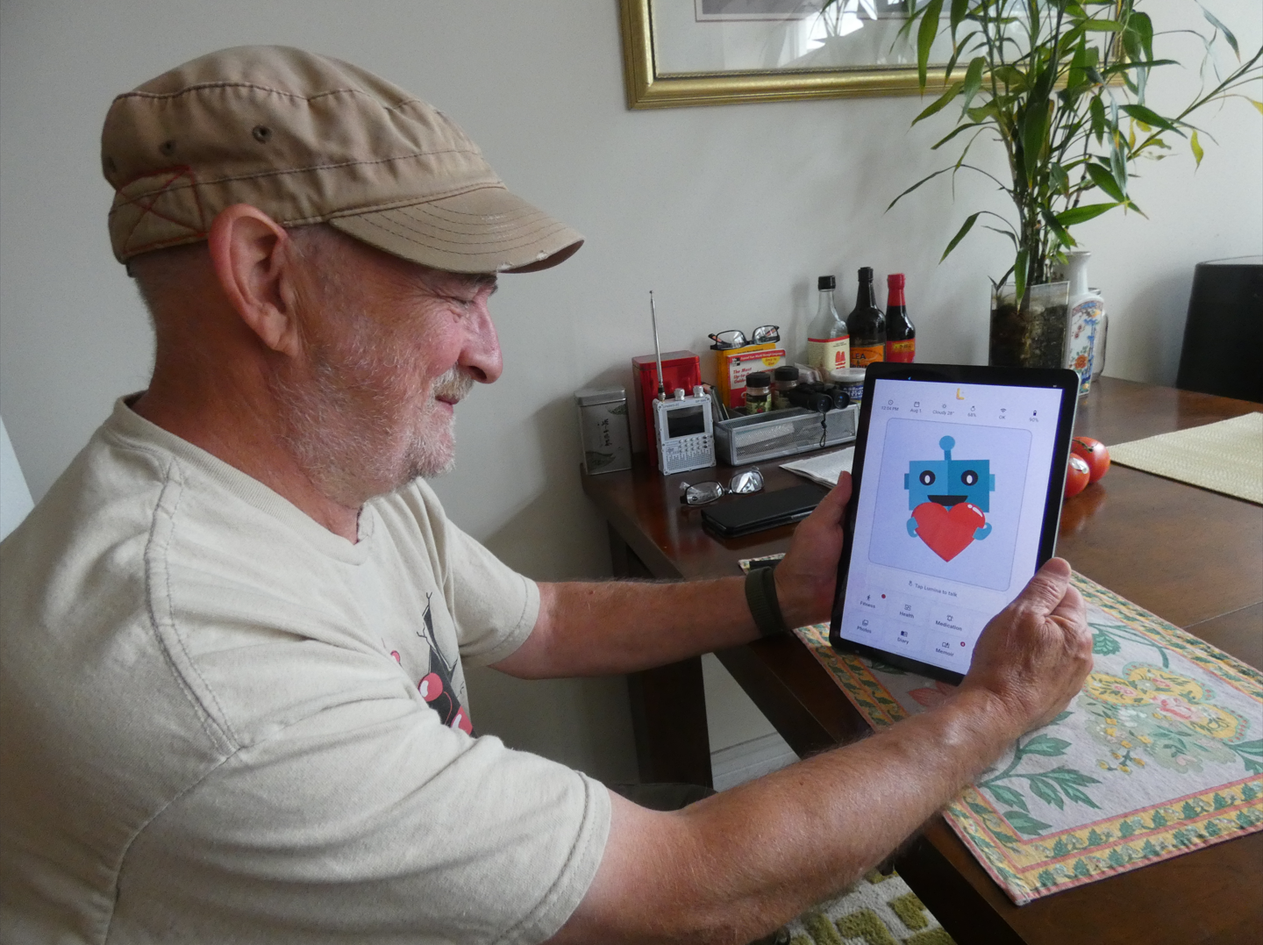
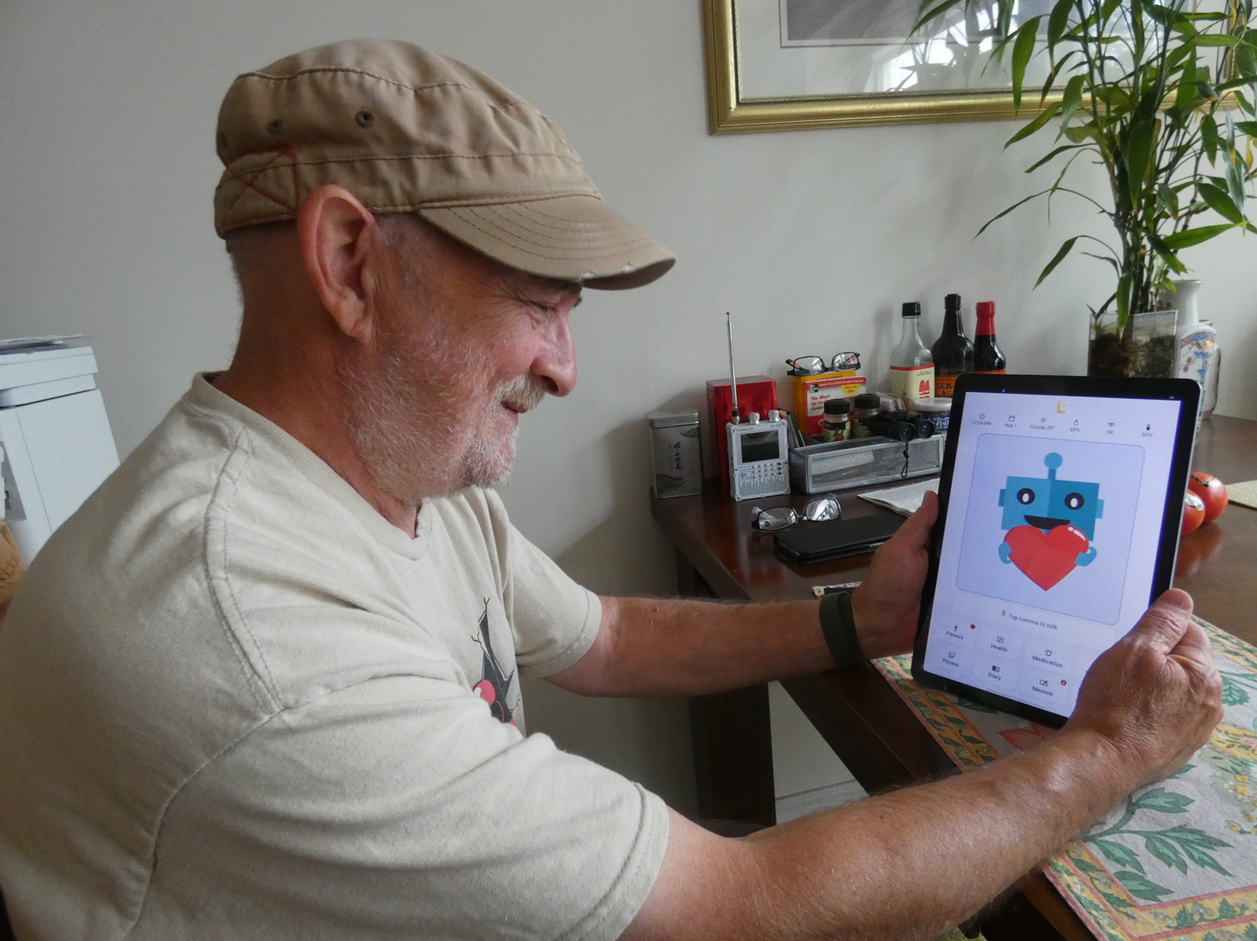
Fix Task 1.1 Bug

diff --git a/css/styles.css b/css/styles.css
@@ -1,2 +1,2 @@
 /*! tailwindcss v4.3.3 | MIT License | https://tailwindcss.com */
-@layer properties{@supports (((-webkit-hyphens:none)) and (not (margin-trim:inline))) or ((-moz-orient:inline) and (not (color:rgb(from red r g b)))){*,:before,:after,::backdrop{--tw-shadow:0 0 #0000;--tw-shadow-color:initial;--tw-shadow-alpha:100%;--tw-inset-shadow:0 0 #0000;--tw-inset-shadow-color:initial;--tw-inset-shadow-alpha:100%;--tw-ring-color:initial;--tw-ring-shadow:0 0 #0000;--tw-inset-ring-color:initial;--tw-inset-ring-shadow:0 0 #0000;--tw-ring-inset:initial;--tw-ring-offset-width:0px;--tw-ring-offset-color:#fff;--tw-ring-offset-shadow:0 0 #0000}}}@layer theme{:root,:host{--font-sans:"Atkinson Hyperlegible", ui-sans-serif, "Segoe UI", sans-serif;--font-mono:ui-monospace, SFMono-Regular, Menlo, Monaco, Consolas, "Liberation Mono", "Courier New", monospace;--default-font-family:var(--font-sans);--default-mono-font-family:var(--font-mono);--font-display:"Fraunces", ui-serif, Georgia, "Times New Roman", serif;--color-ink:#1a2e2a;--color-ink-muted:#4a5c57;--color-canvas:#eef2f0;--color-canvas-deep:#dfe8e3;--color-surface:#f7faf8;--color-pine:#2a5a4a;--color-pine-dark:#1e4337;--color-moss:#5a7d6c;--color-line:#c5d0ca}}@layer base{*,:after,:before,::backdrop{box-sizing:border-box;border:0 solid;margin:0;padding:0}::file-selector-button{box-sizing:border-box;border:0 solid;margin:0;padding:0}html,:host{-webkit-text-size-adjust:100%;tab-size:4;line-height:1.5;font-family:var(--default-font-family,-apple-system, BlinkMacSystemFont, "Segoe UI", Roboto, "Helvetica Neue", "Noto Sans", Arial, sans-serif, "Apple Color Emoji", "Segoe UI Emoji", "Segoe UI Symbol", "Noto Color Emoji");font-feature-settings:var(--default-font-feature-settings,normal);font-variation-settings:var(--default-font-variation-settings,normal);-webkit-tap-highlight-color:transparent}hr{height:0;color:inherit;border-top-width:1px}abbr:where([title]){-webkit-text-decoration:underline dotted;text-decoration:underline dotted}h1,h2,h3,h4,h5,h6{font-size:inherit;font-weight:inherit}a{color:inherit;-webkit-text-decoration:inherit;-webkit-text-decoration:inherit;-webkit-text-decoration:inherit;text-decoration:inherit}b,strong{font-weight:bolder}code,kbd,samp,pre{font-family:var(--default-mono-font-family,ui-monospace, SFMono-Regular, Menlo, Monaco, Consolas, "Liberation Mono", "Courier New", monospace);font-feature-settings:var(--default-mono-font-feature-settings,normal);font-variation-settings:var(--default-mono-font-variation-settings,normal);font-size:1em}small{font-size:80%}sub,sup{vertical-align:baseline;font-size:75%;line-height:0;position:relative}sub{bottom:-.25em}sup{top:-.5em}table{text-indent:0;border-color:inherit;border-collapse:collapse}:-moz-focusring:where(:not(iframe)){outline:auto}progress{vertical-align:baseline}summary{display:list-item}ol,ul,menu{list-style:none}img,svg,video,canvas,audio,iframe,embed,object{vertical-align:middle;display:block}img,video{max-width:100%;height:auto}button,input,select,optgroup,textarea{font:inherit;font-feature-settings:inherit;font-variation-settings:inherit;letter-spacing:inherit;color:inherit;opacity:1;background-color:#0000;border-radius:0}::file-selector-button{font:inherit;font-feature-settings:inherit;font-variation-settings:inherit;letter-spacing:inherit;color:inherit;opacity:1;background-color:#0000;border-radius:0}:where(select:is([multiple],[size])) optgroup{font-weight:bolder}:where(select:is([multiple],[size])) optgroup option{padding-inline-start:20px}::file-selector-button{margin-inline-end:4px}::placeholder{opacity:1}@supports (not ((-webkit-appearance:-apple-pay-button))) or (contain-intrinsic-size:1px){::placeholder{color:currentColor}@supports (color:color-mix(in lab, red, red)){::placeholder{color:color-mix(in oklab, currentcolor 50%, transparent)}}}textarea{resize:vertical}::-webkit-search-decoration{-webkit-appearance:none}::-webkit-date-and-time-value{min-height:1lh;text-align:inherit}::-webkit-datetime-edit{display:inline-flex}::-webkit-datetime-edit-fields-wrapper{padding:0}::-webkit-datetime-edit{padding-block:0}::-webkit-datetime-edit-year-field{padding-block:0}::-webkit-datetime-edit-month-field{padding-block:0}::-webkit-datetime-edit-day-field{padding-block:0}::-webkit-datetime-edit-hour-field{padding-block:0}::-webkit-datetime-edit-minute-field{padding-block:0}::-webkit-datetime-edit-second-field{padding-block:0}::-webkit-datetime-edit-millisecond-field{padding-block:0}::-webkit-datetime-edit-meridiem-field{padding-block:0}::-webkit-calendar-picker-indicator{line-height:1}:-moz-ui-invalid{box-shadow:none}button,input:where([type=button],[type=reset],[type=submit]){appearance:button}::file-selector-button{appearance:button}::-webkit-inner-spin-button{height:auto}::-webkit-outer-spin-button{height:auto}[hidden]:where(:not([hidden=until-found])){display:none!important}html{scroll-behavior:smooth}body{min-height:100vh;font-family:var(--font-sans);color:var(--color-ink);background-color:var(--color-canvas);background-image:radial-gradient(ellipse 120% 80% at 10% -20%, #5a7d6c2e, transparent 55%), radial-gradient(ellipse 90% 60% at 100% 0%, #9a7b521a, transparent 50%), linear-gradient(180deg, var(--color-canvas) 0%, var(--color-canvas-deep) 100%);-webkit-font-smoothing:antialiased;background-attachment:fixed;flex-direction:column;margin:0;display:flex}a{color:inherit;text-underline-offset:.18em;text-decoration-thickness:1px}:focus-visible{outline:2px solid var(--color-pine);outline-offset:3px}.visually-hidden{clip:rect(0, 0, 0, 0);white-space:nowrap;border:0;width:1px;height:1px;margin:-1px;padding:0;position:absolute;overflow:hidden}}@layer components{.site-container{width:min(70rem,100% - 2rem);margin-inline:auto}.brand{font-family:var(--font-display);letter-spacing:-.02em;color:var(--color-pine-dark);font-size:1.35rem;font-weight:650;line-height:1.2}.site-header{z-index:40;border-bottom:1px solid #c5d0cacc;position:sticky;top:0}@supports (color:color-mix(in lab, red, red)){.site-header{border-bottom:1px solid color-mix(in oklab, var(--color-line) 80%, transparent)}}.site-header{background:#f7faf8eb}@supports (color:color-mix(in lab, red, red)){.site-header{background:color-mix(in oklab, var(--color-surface) 92%, transparent)}}.site-header{-webkit-backdrop-filter:blur(10px);backdrop-filter:blur(10px)}.site-header__bar{flex-direction:column;gap:.25rem;padding-block:.5rem;display:flex}.site-header__top{justify-content:space-between;align-items:center;gap:1rem;min-height:3.5rem;display:flex}.nav-toggle{border:1px solid var(--color-line);background:var(--color-surface);min-width:3rem;min-height:3rem;color:var(--color-ink);font:inherit;cursor:pointer;border-radius:.75rem;justify-content:center;align-items:center;gap:.5rem;padding:.5rem .75rem;font-size:.95rem;font-weight:700;display:inline-flex}.nav-toggle__icon{background:linear-gradient(var(--color-ink), var(--color-ink)) 0 0 / 100% 2px no-repeat, linear-gradient(var(--color-ink), var(--color-ink)) 0 50% / 100% 2px no-repeat, linear-gradient(var(--color-ink), var(--color-ink)) 0 100% / 100% 2px no-repeat;width:1.15rem;height:.85rem;display:block}.site-nav{flex-direction:column;gap:.25rem;width:100%;padding:.25rem 0 .75rem;display:none}.site-nav.is-open{display:flex}.nav-link{min-height:3rem;color:var(--color-ink-muted);border-radius:.65rem;align-items:center;padding:.5rem .75rem;font-size:1rem;font-weight:700;text-decoration:none;display:inline-flex}.nav-link:hover{color:var(--color-pine-dark);background:#5a7d6c1f}@supports (color:color-mix(in lab, red, red)){.nav-link:hover{background:color-mix(in oklab, var(--color-moss) 12%, transparent)}}.nav-link[aria-current=page]{color:var(--color-pine-dark);background:#5a7d6c29}@supports (color:color-mix(in lab, red, red)){.nav-link[aria-current=page]{background:color-mix(in oklab, var(--color-moss) 16%, transparent)}}@media (min-width:768px){.site-header__bar{flex-direction:row;justify-content:space-between;align-items:center;gap:1rem;min-height:4rem}.site-header__top{min-height:0}.nav-toggle{display:none}.site-nav,.site-nav.is-open{flex-flow:wrap;align-items:center;gap:.15rem;width:auto;padding:0;display:flex}.nav-link{padding-inline:.65rem;font-size:.95rem}}.btn-row{flex-direction:column;gap:.75rem;margin-top:1.5rem;display:flex}@media (min-width:640px){.btn-row{flex-flow:wrap;align-items:center}}.btn{min-height:3rem;font:inherit;text-align:center;cursor:pointer;border:1.5px solid #0000;border-radius:.75rem;justify-content:center;align-items:center;padding:.75rem 1.25rem;font-size:1rem;font-weight:700;line-height:1.25;text-decoration:none;transition:background-color .16s,color .16s,border-color .16s;display:inline-flex}.btn-primary{background:var(--color-pine);border-color:var(--color-pine);color:#f7faf8}.btn-primary:hover{background:var(--color-pine-dark);border-color:var(--color-pine-dark);color:#f7faf8}.btn-secondary{border-color:var(--color-pine);color:var(--color-pine-dark);background:0 0}.btn-secondary:hover{background:#5a7d6c24}@supports (color:color-mix(in lab, red, red)){.btn-secondary:hover{background:color-mix(in oklab, var(--color-moss) 14%, transparent)}}.page-main{padding-block:0}.page-main--stub{padding-block:2.5rem 3.5rem}.page-stub{max-width:40rem}.page-stub h1{font-family:var(--font-display);letter-spacing:-.02em;color:var(--color-pine-dark);margin:0 0 .75rem;font-size:clamp(1.75rem,4vw,2.35rem);font-weight:650}.page-stub p{color:var(--color-ink-muted);margin:0;font-size:1.05rem;line-height:1.65}.home-section{padding-block:3.25rem}@media (min-width:768px){.home-section{padding-block:4.5rem}}.home-section__inner{width:min(70rem,100% - 2rem);margin-inline:auto}.home-section__inner--narrow{max-width:40rem}.home-kicker{color:var(--color-moss);letter-spacing:.04em;text-transform:uppercase;margin:0 0 .75rem;font-size:.95rem;font-weight:700}.home-heading{font-family:var(--font-display);letter-spacing:-.02em;color:var(--color-pine-dark);margin:0 0 1rem;font-size:clamp(1.65rem,3.6vw,2.35rem);font-weight:650;line-height:1.2}.home-lede,.home-body{max-width:42rem;color:var(--color-ink-muted);margin:0;font-size:1.05rem;line-height:1.7}.home-hero{color:#f4f7f5;align-items:flex-end;min-height:calc(100svh - 4.25rem);display:flex;position:relative;overflow:hidden}.home-hero__media{z-index:0;position:absolute;inset:0}.home-hero__media img{object-fit:cover;object-position:58% 24%;width:100%;max-width:none;height:100%;animation:20s ease-out forwards home-hero-ken}@media (min-width:768px){.home-hero__media img{object-position:55% 28%}}.home-hero__veil{z-index:1;background:linear-gradient(#0f201c33 0%,#0f201c59 40%,#0f201cd1 100%),linear-gradient(90deg,#0f201c94 0%,#0f201c38 55%,#0000 100%);position:absolute;inset:0}.home-hero__content{z-index:2;width:min(70rem,100% - 2rem);margin-inline:auto;padding-block:3rem 3.5rem;animation:.9s cubic-bezier(.22,1,.36,1) both home-fade-up;position:relative}.home-hero__copy{max-width:36rem}.home-hero__brand{font-family:var(--font-display);letter-spacing:-.03em;color:#f7faf8;text-shadow:0 1px 18px #00000040;margin:0 0 .65rem;font-size:clamp(2.35rem,6vw,3.6rem);font-weight:650;line-height:1.05}.home-hero__subhead{font-family:var(--font-display);letter-spacing:-.015em;color:#f3efe6;margin:0 0 1rem;font-size:clamp(1.2rem,2.6vw,1.6rem);font-weight:500;line-height:1.3}.home-hero__support{color:#f7faf8e6;max-width:34rem;margin:0;font-size:1.05rem;line-height:1.65}.home-hero .btn-row{margin-top:1.75rem}.home-hero .btn-secondary{color:#f7faf8;background:#1a2e2a59;border-color:#f7faf8b3}.home-hero .btn-secondary:hover{color:#f7faf8;background:#1a2e2a8c;border-color:#f7faf8}.home-understanding{background:linear-gradient(165deg, #285546 0%, var(--color-pine-dark) 100%)}@supports (color:color-mix(in lab, red, red)){.home-understanding{background:linear-gradient(165deg, color-mix(in oklab, var(--color-pine) 92%, #0f201c) 0%, var(--color-pine-dark) 100%)}}.home-understanding{color:#eef4f1}.home-understanding .home-heading{color:#f7faf8;max-width:22ch;font-size:clamp(1.85rem,4.2vw,2.85rem)}.home-understanding .home-body{color:oklab(96.1782% -.00723395 .00194675/.86);max-width:40rem;font-size:1.12rem}.home-problem .home-body{max-width:38rem;font-size:1.15rem}.home-problem em{color:var(--color-ink);font-style:italic}.home-steps{gap:1.75rem;margin:2rem 0 0;padding:0;list-style:none;display:grid}@media (min-width:768px){.home-steps{grid-template-columns:repeat(3,minmax(0,1fr));gap:2rem}}.home-step{padding-top:.25rem;animation:.8s cubic-bezier(.22,1,.36,1) both home-fade-up;position:relative}.home-step:nth-child(2){animation-delay:.12s}.home-step:nth-child(3){animation-delay:.24s}.home-step__num{border:1.5px solid var(--color-line);background:var(--color-surface);width:2.25rem;height:2.25rem;color:var(--color-pine);font-family:var(--font-display);border-radius:999px;justify-content:center;align-items:center;margin-bottom:.85rem;font-size:1.05rem;font-weight:650;display:inline-flex}.home-step h3{font-family:var(--font-display);letter-spacing:-.015em;color:var(--color-pine-dark);margin:0 0 .5rem;font-size:1.3rem;font-weight:650}.home-step p{color:var(--color-ink-muted);margin:0;font-size:1.02rem;line-height:1.65}.home-families{background:#f7faf8b3}@supports (color:color-mix(in lab, red, red)){.home-families{background:color-mix(in oklab, var(--color-surface) 70%, transparent)}}.home-families{border-block:1px solid #c5d0cab3}@supports (color:color-mix(in lab, red, red)){.home-families{border-block:1px solid color-mix(in oklab, var(--color-line) 70%, transparent)}}.home-families__grid{gap:1.75rem;margin-top:2rem;display:grid}@media (min-width:900px){.home-families__grid{grid-template-columns:repeat(3,minmax(0,1fr));gap:1.5rem}}.home-family{margin:0}.home-family img{aspect-ratio:4/5;object-fit:cover;object-position:center 20%;border-radius:.35rem;width:100%;display:block}.home-family figcaption{color:var(--color-ink-muted);margin-top:.85rem;font-size:.98rem;line-height:1.5}.home-pilot-progress{text-align:center}.home-pilot-progress .home-heading{max-width:28ch;margin-inline:auto}.home-pilot-progress .btn-row{justify-content:center}.home-waitlist{background:radial-gradient(80% 70% at 50% 0,#5a7d6c29,#0000 65%),#eaf0ec}@supports (color:color-mix(in lab, red, red)){.home-waitlist{background:radial-gradient(ellipse 80% 70% at 50% 0%, #5a7d6c29, transparent 65%), color-mix(in oklab, var(--color-canvas-deep) 55%, var(--color-surface))}}.home-waitlist-form{flex-direction:column;gap:.75rem;max-width:28rem;margin-top:1.5rem;display:flex;position:relative}@media (min-width:640px){.home-waitlist-form{flex-flow:wrap;align-items:flex-start}.home-waitlist-form .home-field{flex:14rem}}.home-field label{clip:rect(0, 0, 0, 0);white-space:nowrap;border:0;width:1px;height:1px;margin:-1px;padding:0;position:absolute;overflow:hidden}.home-field input[type=email]{border:1.5px solid var(--color-line);background:var(--color-surface);width:100%;min-height:3rem;color:var(--color-ink);font:inherit;border-radius:.75rem;padding:.75rem 1rem;font-size:1rem}.home-field input[type=email]:focus{border-color:var(--color-pine);outline:none;box-shadow:0 0 0 3px #5a7d6c47}@supports (color:color-mix(in lab, red, red)){.home-field input[type=email]:focus{box-shadow:0 0 0 3px color-mix(in oklab, var(--color-moss) 28%, transparent)}}.home-field input[type=email][aria-invalid=true]{border-color:#8b3a3a}.home-waitlist-form .btn{flex:none}.home-form-note,.home-form-error,.home-form-success{max-width:36rem;margin:.85rem 0 0;font-size:.95rem;line-height:1.55}.home-form-note{color:var(--color-ink-muted)}.home-form-error{color:#8b3a3a;font-weight:700}.home-form-success{color:var(--color-pine-dark);font-weight:700}.home-honeypot{opacity:0!important;pointer-events:none!important;width:1px!important;height:1px!important;position:absolute!important;top:auto!important;left:-10000px!important;overflow:hidden!important}.home-footer-cta{background:var(--color-pine-dark);color:#eef4f1;text-align:center;padding-block:3.5rem 4rem}.home-footer-cta .home-heading{color:#f7faf8;max-width:22ch;margin-inline:auto}.home-footer-cta .btn-row{justify-content:center}.home-footer-cta .btn-secondary{color:#f7faf8;border-color:oklab(98.2279% -.00379169 .00159544/.65)}.home-footer-cta .btn-secondary:hover{color:#f7faf8;background:oklab(98.2279% -.00379169 .00159544/.12);border-color:#f7faf8}@keyframes home-fade-up{0%{opacity:0;transform:translateY(1rem)}to{opacity:1;transform:translateY(0)}}@keyframes home-hero-ken{0%{transform:scale(1.03)}to{transform:scale(1)}}@media (prefers-reduced-motion:reduce){.home-hero__media img,.home-hero__content,.home-step{animation:none}.home-hero__media img{transform:none}}.site-footer{border-top:1px solid #c5d0cad9;margin-top:auto}@supports (color:color-mix(in lab, red, red)){.site-footer{border-top:1px solid color-mix(in oklab, var(--color-line) 85%, transparent)}}.site-footer{background:#f7faf8e0}@supports (color:color-mix(in lab, red, red)){.site-footer{background:color-mix(in oklab, var(--color-surface) 88%, transparent)}}.site-footer{padding-block:2rem 2.75rem}.site-footer__meta{color:var(--color-ink-muted);margin:0 0 1rem;font-size:.95rem;line-height:1.6}.site-footer__links{flex-wrap:wrap;gap:.35rem .5rem;display:inline-flex}.site-footer__links a{min-height:3rem;color:var(--color-pine-dark);align-items:center;padding-inline:.15rem;font-weight:700;display:inline-flex}.site-footer__disclaimer{max-width:62ch;color:var(--color-ink-muted);margin:0;font-size:.875rem;line-height:1.65}}@layer utilities{.fixed{position:fixed}.static{position:static}.block{display:block}.flex{display:flex}.hidden{display:none}.table{display:table}.min-h-screen{min-height:100vh}.max-w-full{max-width:100%}.grow{flex-grow:1}.flex-col{flex-direction:column}.antialiased{-webkit-font-smoothing:antialiased;-moz-osx-font-smoothing:grayscale}.ring{--tw-ring-shadow:var(--tw-ring-inset,) 0 0 0 calc(1px + var(--tw-ring-offset-width)) var(--tw-ring-color,currentcolor);box-shadow:var(--tw-inset-shadow), var(--tw-inset-ring-shadow), var(--tw-ring-offset-shadow), var(--tw-ring-shadow), var(--tw-shadow)}}@property --tw-shadow{syntax:"*";inherits:false;initial-value:0 0 #0000}@property --tw-shadow-color{syntax:"*";inherits:false}@property --tw-shadow-alpha{syntax:"<percentage>";inherits:false;initial-value:100%}@property --tw-inset-shadow{syntax:"*";inherits:false;initial-value:0 0 #0000}@property --tw-inset-shadow-color{syntax:"*";inherits:false}@property --tw-inset-shadow-alpha{syntax:"<percentage>";inherits:false;initial-value:100%}@property --tw-ring-color{syntax:"*";inherits:false}@property --tw-ring-shadow{syntax:"*";inherits:false;initial-value:0 0 #0000}@property --tw-inset-ring-color{syntax:"*";inherits:false}@property --tw-inset-ring-shadow{syntax:"*";inherits:false;initial-value:0 0 #0000}@property --tw-ring-inset{syntax:"*";inherits:false}@property --tw-ring-offset-width{syntax:"<length>";inherits:false;initial-value:0}@property --tw-ring-offset-color{syntax:"*";inherits:false;initial-value:#fff}@property --tw-ring-offset-shadow{syntax:"*";inherits:false;initial-value:0 0 #0000}
+@layer properties{@supports (((-webkit-hyphens:none)) and (not (margin-trim:inline))) or ((-moz-orient:inline) and (not (color:rgb(from red r g b)))){*,:before,:after,::backdrop{--tw-shadow:0 0 #0000;--tw-shadow-color:initial;--tw-shadow-alpha:100%;--tw-inset-shadow:0 0 #0000;--tw-inset-shadow-color:initial;--tw-inset-shadow-alpha:100%;--tw-ring-color:initial;--tw-ring-shadow:0 0 #0000;--tw-inset-ring-color:initial;--tw-inset-ring-shadow:0 0 #0000;--tw-ring-inset:initial;--tw-ring-offset-width:0px;--tw-ring-offset-color:#fff;--tw-ring-offset-shadow:0 0 #0000}}}@layer theme{:root,:host{--font-sans:"Atkinson Hyperlegible", ui-sans-serif, "Segoe UI", sans-serif;--font-mono:ui-monospace, SFMono-Regular, Menlo, Monaco, Consolas, "Liberation Mono", "Courier New", monospace;--default-font-family:var(--font-sans);--default-mono-font-family:var(--font-mono);--font-display:"Fraunces", ui-serif, Georgia, "Times New Roman", serif;--color-ink:#1a2e2a;--color-ink-muted:#4a5c57;--color-canvas:#eef2f0;--color-canvas-deep:#dfe8e3;--color-surface:#f7faf8;--color-pine:#2a5a4a;--color-pine-dark:#1e4337;--color-moss:#5a7d6c;--color-line:#c5d0ca}}@layer base{*,:after,:before,::backdrop{box-sizing:border-box;border:0 solid;margin:0;padding:0}::file-selector-button{box-sizing:border-box;border:0 solid;margin:0;padding:0}html,:host{-webkit-text-size-adjust:100%;tab-size:4;line-height:1.5;font-family:var(--default-font-family,-apple-system, BlinkMacSystemFont, "Segoe UI", Roboto, "Helvetica Neue", "Noto Sans", Arial, sans-serif, "Apple Color Emoji", "Segoe UI Emoji", "Segoe UI Symbol", "Noto Color Emoji");font-feature-settings:var(--default-font-feature-settings,normal);font-variation-settings:var(--default-font-variation-settings,normal);-webkit-tap-highlight-color:transparent}hr{height:0;color:inherit;border-top-width:1px}abbr:where([title]){-webkit-text-decoration:underline dotted;text-decoration:underline dotted}h1,h2,h3,h4,h5,h6{font-size:inherit;font-weight:inherit}a{color:inherit;-webkit-text-decoration:inherit;-webkit-text-decoration:inherit;-webkit-text-decoration:inherit;text-decoration:inherit}b,strong{font-weight:bolder}code,kbd,samp,pre{font-family:var(--default-mono-font-family,ui-monospace, SFMono-Regular, Menlo, Monaco, Consolas, "Liberation Mono", "Courier New", monospace);font-feature-settings:var(--default-mono-font-feature-settings,normal);font-variation-settings:var(--default-mono-font-variation-settings,normal);font-size:1em}small{font-size:80%}sub,sup{vertical-align:baseline;font-size:75%;line-height:0;position:relative}sub{bottom:-.25em}sup{top:-.5em}table{text-indent:0;border-color:inherit;border-collapse:collapse}:-moz-focusring:where(:not(iframe)){outline:auto}progress{vertical-align:baseline}summary{display:list-item}ol,ul,menu{list-style:none}img,svg,video,canvas,audio,iframe,embed,object{vertical-align:middle;display:block}img,video{max-width:100%;height:auto}button,input,select,optgroup,textarea{font:inherit;font-feature-settings:inherit;font-variation-settings:inherit;letter-spacing:inherit;color:inherit;opacity:1;background-color:#0000;border-radius:0}::file-selector-button{font:inherit;font-feature-settings:inherit;font-variation-settings:inherit;letter-spacing:inherit;color:inherit;opacity:1;background-color:#0000;border-radius:0}:where(select:is([multiple],[size])) optgroup{font-weight:bolder}:where(select:is([multiple],[size])) optgroup option{padding-inline-start:20px}::file-selector-button{margin-inline-end:4px}::placeholder{opacity:1}@supports (not ((-webkit-appearance:-apple-pay-button))) or (contain-intrinsic-size:1px){::placeholder{color:currentColor}@supports (color:color-mix(in lab, red, red)){::placeholder{color:color-mix(in oklab, currentcolor 50%, transparent)}}}textarea{resize:vertical}::-webkit-search-decoration{-webkit-appearance:none}::-webkit-date-and-time-value{min-height:1lh;text-align:inherit}::-webkit-datetime-edit{display:inline-flex}::-webkit-datetime-edit-fields-wrapper{padding:0}::-webkit-datetime-edit{padding-block:0}::-webkit-datetime-edit-year-field{padding-block:0}::-webkit-datetime-edit-month-field{padding-block:0}::-webkit-datetime-edit-day-field{padding-block:0}::-webkit-datetime-edit-hour-field{padding-block:0}::-webkit-datetime-edit-minute-field{padding-block:0}::-webkit-datetime-edit-second-field{padding-block:0}::-webkit-datetime-edit-millisecond-field{padding-block:0}::-webkit-datetime-edit-meridiem-field{padding-block:0}::-webkit-calendar-picker-indicator{line-height:1}:-moz-ui-invalid{box-shadow:none}button,input:where([type=button],[type=reset],[type=submit]){appearance:button}::file-selector-button{appearance:button}::-webkit-inner-spin-button{height:auto}::-webkit-outer-spin-button{height:auto}[hidden]:where(:not([hidden=until-found])){display:none!important}html{scroll-behavior:smooth}body{min-height:100vh;font-family:var(--font-sans);color:var(--color-ink);background-color:var(--color-canvas);background-image:radial-gradient(ellipse 120% 80% at 10% -20%, #5a7d6c2e, transparent 55%), radial-gradient(ellipse 90% 60% at 100% 0%, #9a7b521a, transparent 50%), linear-gradient(180deg, var(--color-canvas) 0%, var(--color-canvas-deep) 100%);-webkit-font-smoothing:antialiased;background-attachment:fixed;flex-direction:column;margin:0;display:flex}a{color:inherit;text-underline-offset:.18em;text-decoration-thickness:1px}:focus-visible{outline:2px solid var(--color-pine);outline-offset:3px}.visually-hidden{clip:rect(0, 0, 0, 0);white-space:nowrap;border:0;width:1px;height:1px;margin:-1px;padding:0;position:absolute;overflow:hidden}}@layer components{.site-container{width:min(70rem,100% - 2rem);margin-inline:auto}.brand{font-family:var(--font-display);letter-spacing:-.02em;color:var(--color-pine-dark);font-size:1.35rem;font-weight:650;line-height:1.2}.site-header{z-index:40;border-bottom:1px solid #c5d0cacc;position:sticky;top:0}@supports (color:color-mix(in lab, red, red)){.site-header{border-bottom:1px solid color-mix(in oklab, var(--color-line) 80%, transparent)}}.site-header{background:#f7faf8eb}@supports (color:color-mix(in lab, red, red)){.site-header{background:color-mix(in oklab, var(--color-surface) 92%, transparent)}}.site-header{-webkit-backdrop-filter:blur(10px);backdrop-filter:blur(10px)}.site-header__bar{flex-direction:column;gap:.25rem;padding-block:.5rem;display:flex}.site-header__top{justify-content:space-between;align-items:center;gap:1rem;min-height:3.5rem;display:flex}.nav-toggle{border:1px solid var(--color-line);background:var(--color-surface);min-width:3rem;min-height:3rem;color:var(--color-ink);font:inherit;cursor:pointer;border-radius:.75rem;justify-content:center;align-items:center;gap:.5rem;padding:.5rem .75rem;font-size:.95rem;font-weight:700;display:inline-flex}.nav-toggle__icon{background:linear-gradient(var(--color-ink), var(--color-ink)) 0 0 / 100% 2px no-repeat, linear-gradient(var(--color-ink), var(--color-ink)) 0 50% / 100% 2px no-repeat, linear-gradient(var(--color-ink), var(--color-ink)) 0 100% / 100% 2px no-repeat;width:1.15rem;height:.85rem;display:block}.site-nav{flex-direction:column;gap:.25rem;width:100%;padding:.25rem 0 .75rem;display:none}.site-nav.is-open{display:flex}.nav-link{min-height:3rem;color:var(--color-ink-muted);border-radius:.65rem;align-items:center;padding:.5rem .75rem;font-size:1rem;font-weight:700;text-decoration:none;display:inline-flex}.nav-link:hover{color:var(--color-pine-dark);background:#5a7d6c1f}@supports (color:color-mix(in lab, red, red)){.nav-link:hover{background:color-mix(in oklab, var(--color-moss) 12%, transparent)}}.nav-link[aria-current=page]{color:var(--color-pine-dark);background:#5a7d6c29}@supports (color:color-mix(in lab, red, red)){.nav-link[aria-current=page]{background:color-mix(in oklab, var(--color-moss) 16%, transparent)}}@media (min-width:768px){.site-header__bar{flex-direction:row;justify-content:space-between;align-items:center;gap:1rem;min-height:4rem}.site-header__top{min-height:0}.nav-toggle{display:none}.site-nav,.site-nav.is-open{flex-flow:wrap;align-items:center;gap:.15rem;width:auto;padding:0;display:flex}.nav-link{padding-inline:.65rem;font-size:.95rem}}.btn-row{flex-direction:column;gap:.75rem;margin-top:1.5rem;display:flex}@media (min-width:640px){.btn-row{flex-flow:wrap;align-items:center}}.btn{min-height:3rem;font:inherit;text-align:center;cursor:pointer;border:1.5px solid #0000;border-radius:.75rem;justify-content:center;align-items:center;padding:.75rem 1.25rem;font-size:1rem;font-weight:700;line-height:1.25;text-decoration:none;transition:background-color .16s,color .16s,border-color .16s;display:inline-flex}.btn-primary{background:var(--color-pine);border-color:var(--color-pine);color:#f7faf8}.btn-primary:hover{background:var(--color-pine-dark);border-color:var(--color-pine-dark);color:#f7faf8}.btn-secondary{border-color:var(--color-pine);color:var(--color-pine-dark);background:0 0}.btn-secondary:hover{background:#5a7d6c24}@supports (color:color-mix(in lab, red, red)){.btn-secondary:hover{background:color-mix(in oklab, var(--color-moss) 14%, transparent)}}.page-main{padding-block:0}.page-main--stub{padding-block:2.5rem 3.5rem}.page-stub{max-width:40rem}.page-stub h1{font-family:var(--font-display);letter-spacing:-.02em;color:var(--color-pine-dark);margin:0 0 .75rem;font-size:clamp(1.75rem,4vw,2.35rem);font-weight:650}.page-stub p{color:var(--color-ink-muted);margin:0;font-size:1.05rem;line-height:1.65}.home-section{padding-block:3.25rem}@media (min-width:768px){.home-section{padding-block:4.5rem}}.home-section__inner{width:min(70rem,100% - 2rem);margin-inline:auto}.home-section__inner--narrow{max-width:40rem}.home-kicker{color:var(--color-moss);letter-spacing:.04em;text-transform:uppercase;margin:0 0 .75rem;font-size:.95rem;font-weight:700}.home-heading{font-family:var(--font-display);letter-spacing:-.02em;color:var(--color-pine-dark);margin:0 0 1rem;font-size:clamp(1.65rem,3.6vw,2.35rem);font-weight:650;line-height:1.2}.home-lede,.home-body{max-width:42rem;color:var(--color-ink-muted);margin:0;font-size:1.05rem;line-height:1.7}.home-hero{color:#f4f7f5;align-items:flex-end;min-height:calc(100svh - 4.25rem);display:flex;position:relative;overflow:hidden}.home-hero__media{z-index:0;position:absolute;inset:0}.home-hero__media img{object-fit:cover;object-position:48% 22%;width:100%;max-width:none;height:100%;animation:20s ease-out forwards home-hero-ken}@media (min-width:768px){.home-hero__media img{object-position:45% 26%}}.home-hero__veil{z-index:1;background:linear-gradient(#0f201c33 0%,#0f201c59 40%,#0f201cd1 100%),linear-gradient(90deg,#0f201c94 0%,#0f201c38 55%,#0000 100%);position:absolute;inset:0}.home-hero__content{z-index:2;width:min(70rem,100% - 2rem);margin-inline:auto;padding-block:3rem 3.5rem;animation:.9s cubic-bezier(.22,1,.36,1) both home-fade-up;position:relative}.home-hero__copy{max-width:36rem}.home-hero__brand{font-family:var(--font-display);letter-spacing:-.03em;color:#f7faf8;text-shadow:0 1px 18px #00000040;margin:0 0 .65rem;font-size:clamp(2.35rem,6vw,3.6rem);font-weight:650;line-height:1.05}.home-hero__subhead{font-family:var(--font-display);letter-spacing:-.015em;color:#f3efe6;margin:0 0 1rem;font-size:clamp(1.2rem,2.6vw,1.6rem);font-weight:500;line-height:1.3}.home-hero__support{color:#f7faf8e6;max-width:34rem;margin:0;font-size:1.05rem;line-height:1.65}.home-hero .btn-row{margin-top:1.75rem}.home-hero .btn-secondary{color:#f7faf8;background:#1a2e2a59;border-color:#f7faf8b3}.home-hero .btn-secondary:hover{color:#f7faf8;background:#1a2e2a8c;border-color:#f7faf8}.home-understanding{background:linear-gradient(165deg, #285546 0%, var(--color-pine-dark) 100%)}@supports (color:color-mix(in lab, red, red)){.home-understanding{background:linear-gradient(165deg, color-mix(in oklab, var(--color-pine) 92%, #0f201c) 0%, var(--color-pine-dark) 100%)}}.home-understanding{color:#eef4f1}.home-understanding .home-heading{color:#f7faf8;max-width:22ch;font-size:clamp(1.85rem,4.2vw,2.85rem)}.home-understanding .home-body{color:oklab(96.1782% -.00723395 .00194675/.86);max-width:40rem;font-size:1.12rem}.home-problem .home-body{max-width:38rem;font-size:1.15rem}.home-problem em{color:var(--color-ink);font-style:italic}.home-steps{gap:1.75rem;margin:2rem 0 0;padding:0;list-style:none;display:grid}@media (min-width:768px){.home-steps{grid-template-columns:repeat(3,minmax(0,1fr));gap:2rem}}.home-step{padding-top:.25rem;animation:.8s cubic-bezier(.22,1,.36,1) both home-fade-up;position:relative}.home-step:nth-child(2){animation-delay:.12s}.home-step:nth-child(3){animation-delay:.24s}.home-step__num{border:1.5px solid var(--color-line);background:var(--color-surface);width:2.25rem;height:2.25rem;color:var(--color-pine);font-family:var(--font-display);border-radius:999px;justify-content:center;align-items:center;margin-bottom:.85rem;font-size:1.05rem;font-weight:650;display:inline-flex}.home-step h3{font-family:var(--font-display);letter-spacing:-.015em;color:var(--color-pine-dark);margin:0 0 .5rem;font-size:1.3rem;font-weight:650}.home-step p{color:var(--color-ink-muted);margin:0;font-size:1.02rem;line-height:1.65}.home-families{background:#f7faf8b3}@supports (color:color-mix(in lab, red, red)){.home-families{background:color-mix(in oklab, var(--color-surface) 70%, transparent)}}.home-families{border-block:1px solid #c5d0cab3}@supports (color:color-mix(in lab, red, red)){.home-families{border-block:1px solid color-mix(in oklab, var(--color-line) 70%, transparent)}}.home-families__grid{gap:1.75rem;margin-top:2rem;display:grid}@media (min-width:900px){.home-families__grid{grid-template-columns:repeat(3,minmax(0,1fr));gap:1.5rem}}.home-family{margin:0}.home-family img{aspect-ratio:4/5;object-fit:cover;object-position:center 20%;border-radius:.35rem;width:100%;display:block}.home-family figcaption{color:var(--color-ink-muted);margin-top:.85rem;font-size:.98rem;line-height:1.5}.home-pilot-progress{text-align:center}.home-pilot-progress .home-heading{max-width:28ch;margin-inline:auto}.home-pilot-progress .btn-row{justify-content:center}.home-waitlist{background:radial-gradient(80% 70% at 50% 0,#5a7d6c29,#0000 65%),#eaf0ec}@supports (color:color-mix(in lab, red, red)){.home-waitlist{background:radial-gradient(ellipse 80% 70% at 50% 0%, #5a7d6c29, transparent 65%), color-mix(in oklab, var(--color-canvas-deep) 55%, var(--color-surface))}}.home-waitlist-form{flex-direction:column;gap:.75rem;max-width:28rem;margin-top:1.5rem;display:flex;position:relative}@media (min-width:640px){.home-waitlist-form{flex-flow:wrap;align-items:flex-start}.home-waitlist-form .home-field{flex:14rem}}.home-field label{clip:rect(0, 0, 0, 0);white-space:nowrap;border:0;width:1px;height:1px;margin:-1px;padding:0;position:absolute;overflow:hidden}.home-field input[type=email]{border:1.5px solid var(--color-line);background:var(--color-surface);width:100%;min-height:3rem;color:var(--color-ink);font:inherit;border-radius:.75rem;padding:.75rem 1rem;font-size:1rem}.home-field input[type=email]:focus{border-color:var(--color-pine);outline:none;box-shadow:0 0 0 3px #5a7d6c47}@supports (color:color-mix(in lab, red, red)){.home-field input[type=email]:focus{box-shadow:0 0 0 3px color-mix(in oklab, var(--color-moss) 28%, transparent)}}.home-field input[type=email][aria-invalid=true]{border-color:#8b3a3a}.home-waitlist-form .btn{flex:none}.home-form-note,.home-form-error,.home-form-success{max-width:36rem;margin:.85rem 0 0;font-size:.95rem;line-height:1.55}.home-form-note{color:var(--color-ink-muted)}.home-form-error{color:#8b3a3a;font-weight:700}.home-form-success{color:var(--color-pine-dark);font-weight:700}.home-honeypot{opacity:0!important;pointer-events:none!important;width:1px!important;height:1px!important;position:absolute!important;top:auto!important;left:-10000px!important;overflow:hidden!important}.home-footer-cta{background:var(--color-pine-dark);color:#eef4f1;text-align:center;padding-block:3.5rem 4rem}.home-footer-cta .home-heading{color:#f7faf8;max-width:22ch;margin-inline:auto}.home-footer-cta .btn-row{justify-content:center}.home-footer-cta .btn-secondary{color:#f7faf8;border-color:oklab(98.2279% -.00379169 .00159544/.65)}.home-footer-cta .btn-secondary:hover{color:#f7faf8;background:oklab(98.2279% -.00379169 .00159544/.12);border-color:#f7faf8}@keyframes home-fade-up{0%{opacity:0;transform:translateY(1rem)}to{opacity:1;transform:translateY(0)}}@keyframes home-hero-ken{0%{transform:scale(1.03)}to{transform:scale(1)}}@media (prefers-reduced-motion:reduce){.home-hero__media img,.home-hero__content,.home-step{animation:none}.home-hero__media img{transform:none}}.site-footer{border-top:1px solid #c5d0cad9;margin-top:auto}@supports (color:color-mix(in lab, red, red)){.site-footer{border-top:1px solid color-mix(in oklab, var(--color-line) 85%, transparent)}}.site-footer{background:#f7faf8e0}@supports (color:color-mix(in lab, red, red)){.site-footer{background:color-mix(in oklab, var(--color-surface) 88%, transparent)}}.site-footer{padding-block:2rem 2.75rem}.site-footer__meta{color:var(--color-ink-muted);margin:0 0 1rem;font-size:.95rem;line-height:1.6}.site-footer__links{flex-wrap:wrap;gap:.35rem .5rem;display:inline-flex}.site-footer__links a{min-height:3rem;color:var(--color-pine-dark);align-items:center;padding-inline:.15rem;font-weight:700;display:inline-flex}.site-footer__disclaimer{max-width:62ch;color:var(--color-ink-muted);margin:0;font-size:.875rem;line-height:1.65}}@layer utilities{.fixed{position:fixed}.static{position:static}.block{display:block}.flex{display:flex}.hidden{display:none}.table{display:table}.min-h-screen{min-height:100vh}.max-w-full{max-width:100%}.grow{flex-grow:1}.flex-col{flex-direction:column}.antialiased{-webkit-font-smoothing:antialiased;-moz-osx-font-smoothing:grayscale}.ring{--tw-ring-shadow:var(--tw-ring-inset,) 0 0 0 calc(1px + var(--tw-ring-offset-width)) var(--tw-ring-color,currentcolor);box-shadow:var(--tw-inset-shadow), var(--tw-inset-ring-shadow), var(--tw-ring-offset-shadow), var(--tw-ring-shadow), var(--tw-shadow)}}@property --tw-shadow{syntax:"*";inherits:false;initial-value:0 0 #0000}@property --tw-shadow-color{syntax:"*";inherits:false}@property --tw-shadow-alpha{syntax:"<percentage>";inherits:false;initial-value:100%}@property --tw-inset-shadow{syntax:"*";inherits:false;initial-value:0 0 #0000}@property --tw-inset-shadow-color{syntax:"*";inherits:false}@property --tw-inset-shadow-alpha{syntax:"<percentage>";inherits:false;initial-value:100%}@property --tw-ring-color{syntax:"*";inherits:false}@property --tw-ring-shadow{syntax:"*";inherits:false;initial-value:0 0 #0000}@property --tw-inset-ring-color{syntax:"*";inherits:false}@property --tw-inset-ring-shadow{syntax:"*";inherits:false;initial-value:0 0 #0000}@property --tw-ring-inset{syntax:"*";inherits:false}@property --tw-ring-offset-width{syntax:"<length>";inherits:false;initial-value:0}@property --tw-ring-offset-color{syntax:"*";inherits:false;initial-value:#fff}@property --tw-ring-offset-shadow{syntax:"*";inherits:false;initial-value:0 0 #0000}

diff --git a/index.html b/index.html
@@ -54,7 +54,7 @@
       <section class="home-hero" aria-labelledby="home-hero-heading">
         <div class="home-hero__media" aria-hidden="true">
           <img
-            src="assets/images/pilot/grandma-tuen.png"
+            src="assets/images/pilot/michael.png"
             alt=""
             width="1600"
             height="2000"
@@ -150,14 +150,14 @@
           <div class="home-families__grid">
             <figure class="home-family">
               <img
-                src="assets/images/pilot/grandma-tuen.png"
-                alt="Grandma Tuen reading on a tablet outdoors"
+                src="assets/images/pilot/michael.png"
+                alt="Michael seated with the Lumina Hub"
                 width="1200"
                 height="1500"
                 loading="lazy"
               />
               <figcaption>
-                Grandma Tuen, 75 — reading a memory Lumina helped create.
+                Michael, 67 — a quiet afternoon with Lumina.
               </figcaption>
             </figure>
             <figure class="home-family">
@@ -174,14 +174,14 @@
             </figure>
             <figure class="home-family">
               <img
-                src="assets/images/pilot/michael.png"
-                alt="Michael seated with the Lumina Hub"
+                src="assets/images/pilot/grandma-tuen.png"
+                alt="Grandma Tuen reading on a tablet outdoors"
                 width="1200"
                 height="1500"
                 loading="lazy"
               />
               <figcaption>
-                Michael, 67 — a quiet afternoon with Lumina.
+                Grandma Tuen, 75 — reading a memory Lumina helped create.
               </figcaption>
             </figure>
           </div>

diff --git a/src/input.css b/src/input.css
@@ -356,14 +356,14 @@
     height: 100%;
     max-width: none;
     object-fit: cover;
-    /* Grandma Tuen — bias so face isn't clipped on the right */
-    object-position: 58% 24%;
+    /* Michael + Hub — keep face and tablet in frame */
+    object-position: 48% 22%;
     animation: home-hero-ken 20s ease-out forwards;
   }
 
   @media (min-width: 768px) {
     .home-hero__media img {
-      object-position: 55% 28%;
+      object-position: 45% 26%;
     }
   }
 
